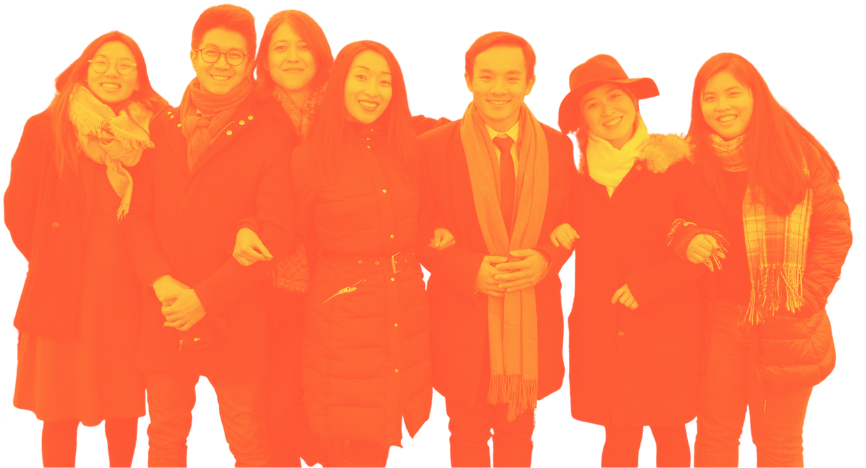
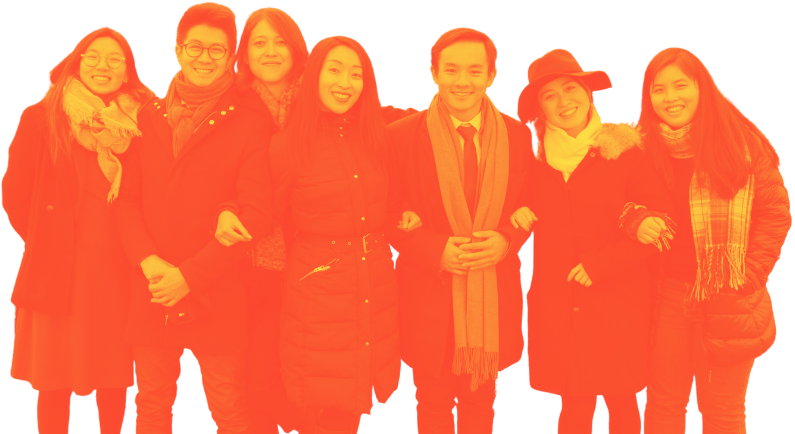
style: Change secondary-color

diff --git a/ajcf-new-site/styles/variables.scss b/ajcf-new-site/styles/variables.scss
@@ -2,7 +2,7 @@ $accent-color: #f3f6fa;
 $blue-wf: #3c64b1;
 
 $primary-color: #fad43c;
-$secondary-color: #fd5335;
+$secondary-color: #f85134;
 $secondary-color-20: #fd533533;
 $text-color: #373f41;
 $title-color: #000000;
